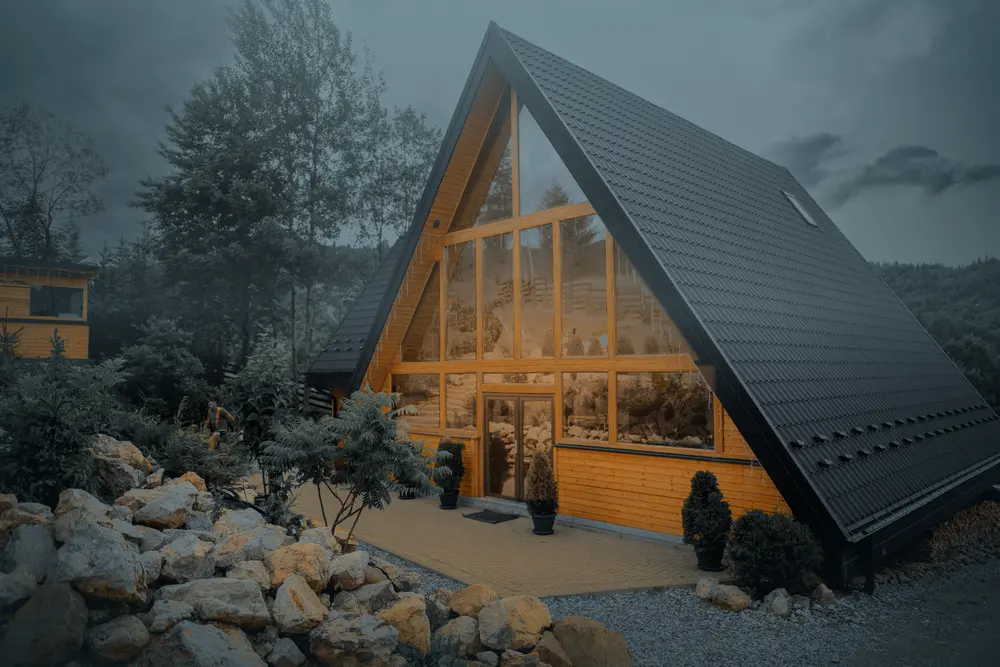
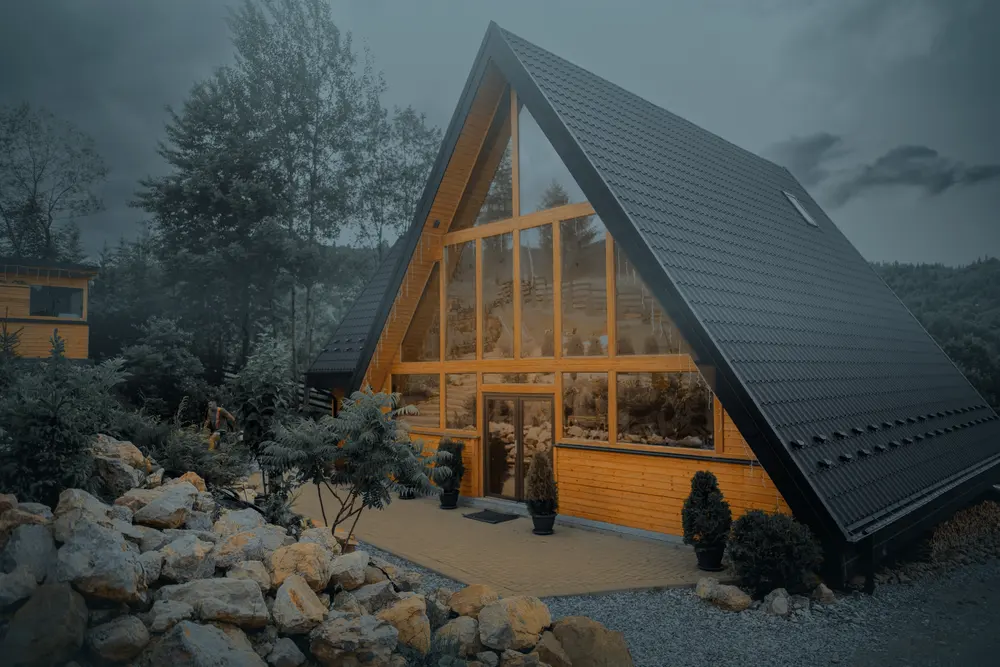
Hero: p24 with softer lamplight; remove the photo test picker
- Owner picked p24 (three-quarter view, rock garden, glass gable) for the
  floating-frame hero; alt text, preload, srcset and misty surround updated
- Warm interior light toned down (lamps strength 0.92 -> 0.7, spill
  0.12 -> 0.08), p24 regraded
- Removed the preview-only photo picker and cycle button (JS + CSS) and the
  unused hero candidates (p09, p14, p20, p37)
- DESIGN.md / IMAGE_CREDITS.md describe the floating pane and p24

Verified: hero fits one screen at 1024–1920 and on phones, no horizontal
overflow 320–1920, booking flow to WhatsApp works, no console errors.

Changed region(s): [[0.434, 0.4798, 0.589, 0.6597]]

diff --git a/app.js b/app.js
@@ -166,45 +166,6 @@
   }, { passive: true });
   onScrollFrame();
 
-  /* -- Hero photo options (hero-options preview only; remove once a photo is chosen) -- */
-  (function heroOptions() {
-    var OPTIONS = ["p37", "p24", "p20", "p14", "p09"];
-    var onPreview = /hero-options|localhost/.test(location.hostname) || /[?&]hero=/.test(location.search);
-    if (!onPreview) return;
-    var img = document.getElementById("heroImg"), src = document.getElementById("heroSrc"), haze = document.getElementById("heroHaze");
-    function use(id) {
-      src.srcset = "images/hero/" + id + "-1000.webp 1000w, images/hero/" + id + ".webp 2000w";
-      img.src = "images/hero/" + id + ".jpg";
-      haze.style.backgroundImage = "url('images/hero/" + id + "-haze.webp')";
-      current = id;
-      bar.querySelectorAll("button[data-id]").forEach(function (b) { b.setAttribute("aria-pressed", b.getAttribute("data-id") === id ? "true" : "false"); });
-      count.textContent = (OPTIONS.indexOf(id) + 1) + "/" + OPTIONS.length;
-      try { history.replaceState(null, "", "?hero=" + id + location.hash); } catch (e) {}
-    }
-    var current = "p37";
-    var bar = document.createElement("div");
-    bar.className = "hero-pick";
-    bar.innerHTML = "<span>Foto hero</span>";
-    OPTIONS.forEach(function (id) {
-      var b = document.createElement("button");
-      b.type = "button"; b.textContent = id; b.setAttribute("data-id", id);
-      b.addEventListener("click", function () { use(id); });
-      bar.appendChild(b);
-    });
-    // test button: cycle through the photos one by one
-    var next = document.createElement("button");
-    next.type = "button"; next.className = "hero-pick-next";
-    next.innerHTML = "Următoarea foto<svg aria-hidden=\"true\"><use href=\"#i-arrow\"/></svg>";
-    var count = document.createElement("span");
-    count.className = "hero-pick-count";
-    next.appendChild(count);
-    next.addEventListener("click", function () { use(OPTIONS[(OPTIONS.indexOf(current) + 1) % OPTIONS.length]); });
-    bar.appendChild(next);
-    document.body.appendChild(bar);
-    var m = location.search.match(/[?&]hero=(p\d+)/);
-    use(m && OPTIONS.indexOf(m[1]) >= 0 ? m[1] : "p37");
-  })();
-
   /* -- Burger menu ---------------------------------------------------------------------- */
   var burger = document.getElementById("navBurger");
   var navLinks = document.getElementById("navLinks");

diff --git a/index.html b/index.html
@@ -37,11 +37,11 @@
 
   <!-- LCP: fetch the hero image early, right size per viewport -->
   <link rel="preload" as="image" type="image/webp"
-        href="images/hero/p37.webp"
-        imagesrcset="images/hero/p37-1000.webp 1000w, images/hero/p37.webp 2000w"
+        href="images/hero/p24.webp"
+        imagesrcset="images/hero/p24-1000.webp 1000w, images/hero/p24.webp 2000w"
         imagesizes="90vw" fetchpriority="high">
 
-  <link rel="stylesheet" href="styles.css?v=36">
+  <link rel="stylesheet" href="styles.css?v=37">
 
   <!-- Structured data. TODO owner: add priceRange, exact streetAddress + postalCode,
        checkinTime / checkoutTime, petsAllowed, and sameAs links
@@ -165,11 +165,11 @@
 
   <!-- HERO -->
   <header class="hero" id="hero">
-    <div class="hero-haze" id="heroHaze" aria-hidden="true" style="background-image:url('images/hero/p37-haze.webp')"></div>
+    <div class="hero-haze" id="heroHaze" aria-hidden="true" style="background-image:url('images/hero/p24-haze.webp')"></div>
     <div class="hero-frame">
       <picture class="hero-photo">
-        <source id="heroSrc" type="image/webp" srcset="images/hero/p37-1000.webp 1000w, images/hero/p37.webp 2000w" sizes="90vw">
-        <img id="heroImg" src="images/hero/p37.jpg" alt="Cabana A-Frame Green View Rarău, cu fațada de sticlă și lemn, sub dealurile împădurite ale Rarăului, la amurg" width="1600" height="1200" fetchpriority="high" decoding="async">
+        <source id="heroSrc" type="image/webp" srcset="images/hero/p24-1000.webp 1000w, images/hero/p24.webp 2000w" sizes="90vw">
+        <img id="heroImg" src="images/hero/p24.jpg" alt="Cabana A-Frame Green View Rarău la amurg, cu lumină caldă în fațada de sticlă, între brazi și grădina cu pietre" width="1600" height="1066" fetchpriority="high" decoding="async">
       </picture>
       <h1 class="hero-title" data-i18n="hero_title">O cabană <span class="nw">A-Frame</span><br><em>la poalele</em><br>Rarăului</h1>
 
@@ -703,6 +703,6 @@
        Plausible (self-host or plausible.io) — also feeds the track() events in app.js:
        <script defer data-domain="cabanagreenview.ro" src="https://plausible.io/js/script.js"></script>
   -->
-  <script src="app.js?v=31" defer></script>
+  <script src="app.js?v=32" defer></script>
 </body>
 </html>

diff --git a/styles.css b/styles.css
@@ -223,7 +223,7 @@ html { scrollbar-color: var(--mist-1) var(--ink-1); scrollbar-width: thin; }
   position: absolute; inset: 0; width: 100%; height: 100%;
 }
 .hero-photo { z-index: -1; border-radius: inherit; overflow: hidden; }
-.hero-photo img { object-fit: cover; object-position: 50% 62%; }
+.hero-photo img { object-fit: cover; object-position: 50% 45%; }
 .hero-photo::after {   /* soft fall-off so the frame's lower half always reads */
   content: ""; position: absolute; inset: 0; pointer-events: none;
   background: linear-gradient(180deg, rgba(8, 18, 21, 0) 55%, rgba(8, 18, 21, 0.4) 100%);
@@ -842,23 +842,6 @@ button.cal-day:hover:not(:disabled) { background: var(--ink-3); }
   .book-card .btn { padding-inline: 1rem; font-size: 0.95rem; }
   .book-card .btn svg { display: none; }
 }
-
-/* Preview-only hero photo picker (hero-options branch) */
-.hero-pick {
-  position: fixed; z-index: 120; left: 50%; bottom: 14px; transform: translateX(-50%);
-  display: flex; gap: 4px; padding: 5px; border-radius: 14px;
-  background: rgba(11, 22, 26, 0.86); box-shadow: 0 0 0 1px rgba(242, 246, 246, 0.1), 0 12px 30px -10px rgba(0, 0, 0, 0.6);
-  -webkit-backdrop-filter: blur(12px); backdrop-filter: blur(12px);
-}
-.hero-pick span { align-self: center; padding: 0 8px 0 6px; font-size: 0.8rem; color: var(--mist-2); }
-.hero-pick button { min-height: 40px; padding: 0 12px; border-radius: 10px; font-size: 0.9rem; color: var(--mist-3); }
-.hero-pick button:hover { background: var(--ink-3); color: var(--snow); }
-.hero-pick button[aria-pressed="true"] { background: var(--snow); color: var(--ink-1); }
-.hero-pick .hero-pick-next { white-space: nowrap; display: inline-flex; align-items: center; gap: 6px; margin-left: 6px; padding: 0 14px; background: var(--amber); color: var(--ink-0); font-weight: 500; }
-.hero-pick .hero-pick-next:hover { background: #f0b45c; color: var(--ink-0); }
-.hero-pick-next svg { width: 16px; height: 16px; }
-.hero-pick-count { margin-left: 4px; padding: 0; font-size: 0.85rem; color: inherit; font-variant-numeric: tabular-nums; }
-@media (max-width: 640px) { .hero-pick > span, .hero-pick button[data-id] { display: none; } }
 
 /* MOTION — respect the user's preference */
 @media (prefers-reduced-motion: reduce) {

diff --git a/DESIGN.md b/DESIGN.md
@@ -177,7 +177,7 @@ Generous, soft rectangles in four sizes: frames (24–52px) for photographic sta
 - Brand mark (line-drawn A-frame, crossed rafters, one amber lit window; snow strokes) + name left, text links centre-right with an underline that draws in from the left on hover, pill language toggle, white "Rezervare" button. Over the hero it floats inside the frame with no fill; after 40px of scroll it becomes a glass bar pinned 10px from the top. Below 1024px the links move into a glass sheet behind a two-line burger.
 
 ### Inset Photo Frame (signature)
-A full-bleed photograph with a rounded frame inset by `edge`, carrying the translucent rim. The hero and the seasons stage use it; the footer repeats the shape on the dark ground.
+**Hero (floating pane):** the sharp photo (p24, dusk grade with soft lamplight) shows only inside the rounded frame, which sits inside a misty margin (`--hero-x` up to 128px, `--hero-y` up to 72px; thin on phones). Around it is a tiny blurred copy of the same photo, lifted toward fog. The frame carries the translucent rim and a two-part shadow, so it floats like a pane of glass. **Seasons stage:** a full-bleed photo with the frame and rim inset over it. The footer repeats the rounded shape on the dark ground.
 
 ### Booking Card (signature)
 The whole booking flow lives in the hero card. From top to bottom: arrival and departure fields; a summary well that shows the rules (minimum 2 nights, 8–16 guests) before dates are picked and the stay itself after ("3 nopți · 8 persoane", the weekday range, and a "Schimbă" pill); a guest stepper with 44px buttons; and the white WhatsApp button with a one-line note under it. With no dates, the button opens the picker instead of sending. Other booking buttons on the page scroll to this card and open the picker.

diff --git a/IMAGE_CREDITS.md b/IMAGE_CREDITS.md
@@ -2,11 +2,11 @@
 
 Cabin photos (`images/p*.jpg` / `.webp`, `images/og.jpg`) are the property owner's own.
 
-`images/hero/<photo>*` (p09, p14, p20, p24, p37) are the owner's photos (originals from the first
-commit, e.g. `da8ac85:images/p37.jpg`) colour-graded to a dusk/mist look by `tools/mist.mjs`
+`images/hero/p24*` is the owner's photo `p24` (2048px original from the first commit,
+`da8ac85:images/p24.jpg`; chosen 2026-10-02 over p09, p14, p20 and p37) colour-graded to a dusk/mist look by `tools/mist.mjs`
 (cool slate-teal split-tone that keeps the wood warm, plus height-weighted haze), plus
-warm interior lamplight behind the glass gable (p14, p20, p24, p37) (`lamps()` in the same file; added at the
-owner's request on 2026-10-02 for an evening look). The `-haze.webp` files are tiny blurred copies used as the misty surround. No objects added or removed; regenerate with the command in that file's header.
+softened warm interior lamplight behind the glass gable (`lamps()` in the same file; added at the
+owner's request on 2026-10-02 for an evening look). `p24-haze.webp` is a tiny blurred copy used as the misty surround. No objects added or removed; regenerate with the command in that file's header.
 
 ## Surroundings section (`images/poi/`)
 
